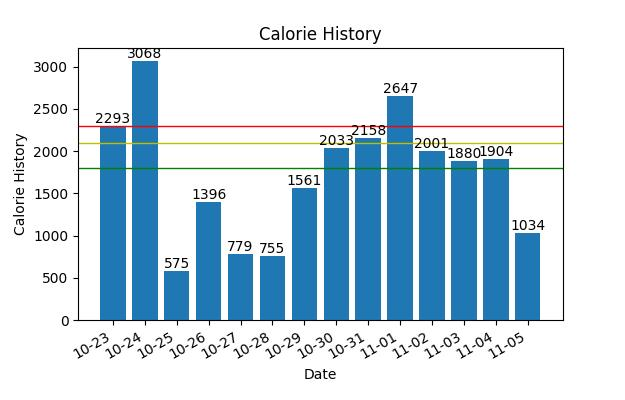
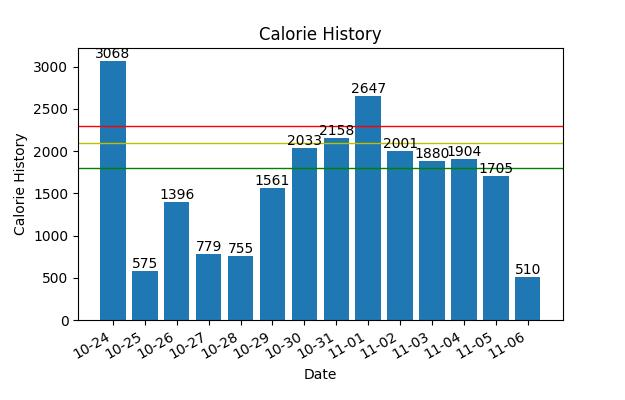
Fixed the graph update issue.

diff --git a/history.py b/history.py
@@ -12,11 +12,12 @@ import matplotlib.pyplot as plt
 
 mod_path = pathlib.Path(__file__).parent
 
-
 # Need to use this if no interactive window.
 matplotlib.use('Agg')
 
 
+# Plots the Calorie history bar chart along with the 3 lines showing the maintain, slow weight loss, and fast weight
+# loss targets.
 class CalorieHistoryPlotter:
     def __init__(self, max_plot_points):
         matplotlib.pyplot.rcParams["savefig.format"] = 'jpg'
@@ -62,6 +63,24 @@ class CalorieHistoryPlotter:
         matplotlib.pyplot.title('Calorie History')
 
         matplotlib.pyplot.savefig(file_name)
+
+
+# Class to manage the updating of the history graph.
+class HistoryGrapher(tk.Frame):
+    def __init__(self, frame):
+        tk.Frame.__init__(self, frame)
+        img = ImageTk.PhotoImage(Image.open('calorie_history_graph.jpg'))
+        self.graph_label = tk.Label(frame, image=img)
+        self.graph_label.image = img
+        self.graph_label.grid(column=0, row=0)
+        #self.update_graph()
+
+    # Update the graph as it changes over time.
+    def update_graph(self):
+        img = ImageTk.PhotoImage(Image.open('calorie_history_graph.jpg'))
+        self.graph_label.configure(image=img)
+        self.graph_label.image = img
+        self.after(60*1000, self.update_graph) # Update after 10 minutes
 
 
 # Class to create the Calorie History
@@ -139,6 +158,7 @@ class CalorieHistoryFrame(tk.Frame):
             print("Totals:", key, calorie_history[key])
 
         # Plot the last 2 weeks
+        print("updating graph")
         calorie_plotter = CalorieHistoryPlotter(14)
         calorie_plotter.plot_save(calorie_history, 2300, 2100, 1800, 'calorie_history_graph.jpg')
 
@@ -161,7 +181,8 @@ class CalorieHistoryFrame(tk.Frame):
             #print(self.todays_calories)
 
         # self.todays_calories_value_label.configure(text = (f"{self.todays_calories:.0f} kCal"))
-        self.after(20*60*1000, self.populate_history) # Update once an hour - to ensure the day change gets included
+        self.after(60*1000, self.populate_history) # Update once an hour - to ensure the day change gets included
+
 
 # Class to manaage the history frame of the Application.
 class HistoryFrame():
@@ -187,11 +208,9 @@ class HistoryFrame():
         #history_label.grid(column=0, row=0)
         #history_label.grid(column=0, row=0)
 
-
-        img = ImageTk.PhotoImage(Image.open('calorie_history_graph.jpg'))
-        label = tk.Label(self.graph_frame, image=img)
-        label.image = img
-        label.grid(column=0, row=0)
+        history_grapher = HistoryGrapher(self.graph_frame)
+        time.sleep(15)
+        history_grapher.update_graph()
 
         self.calorie_history_frame.grid(column=0, row=0)
         self.graph_frame.grid(column=1, row=0)
